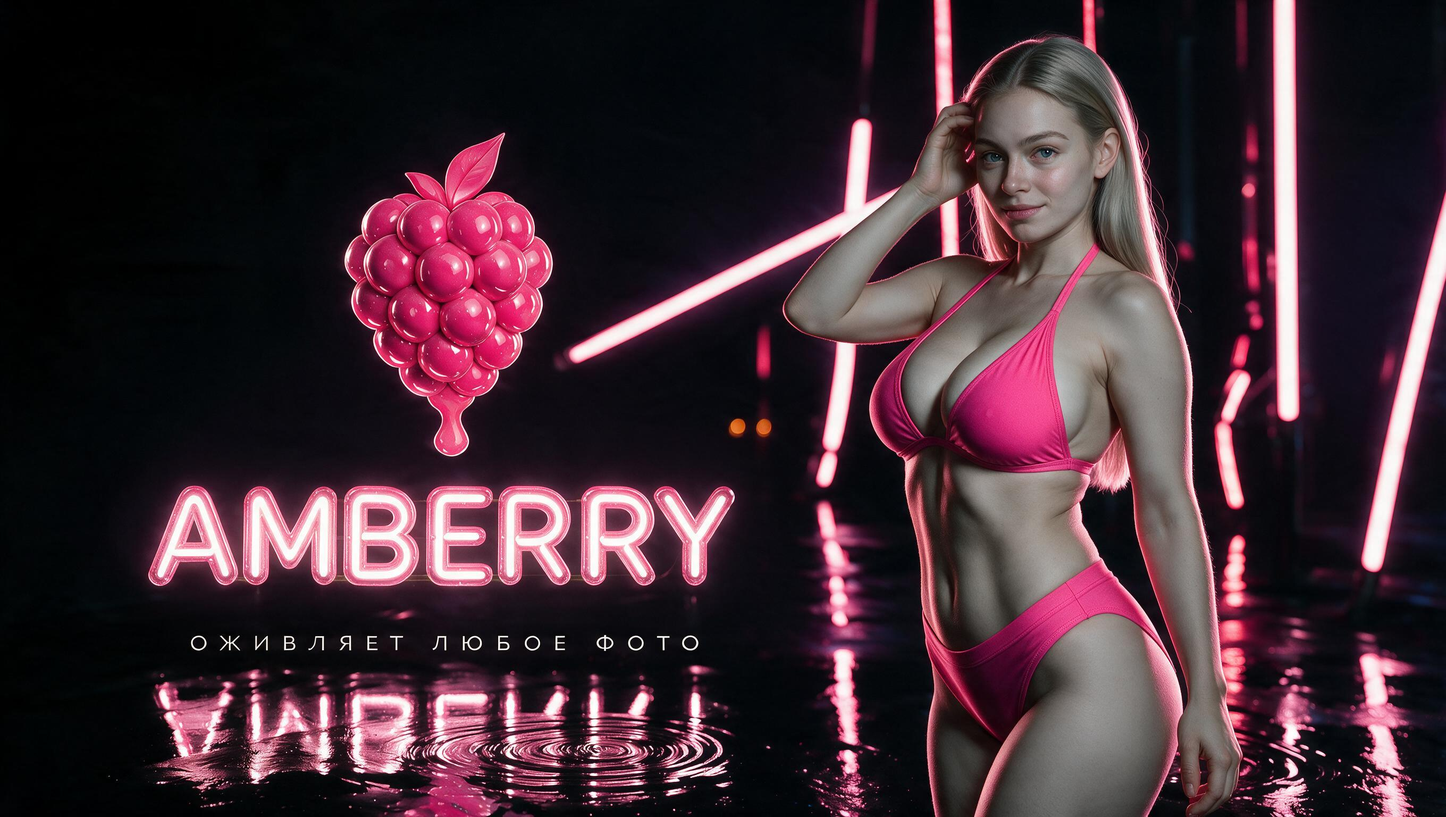
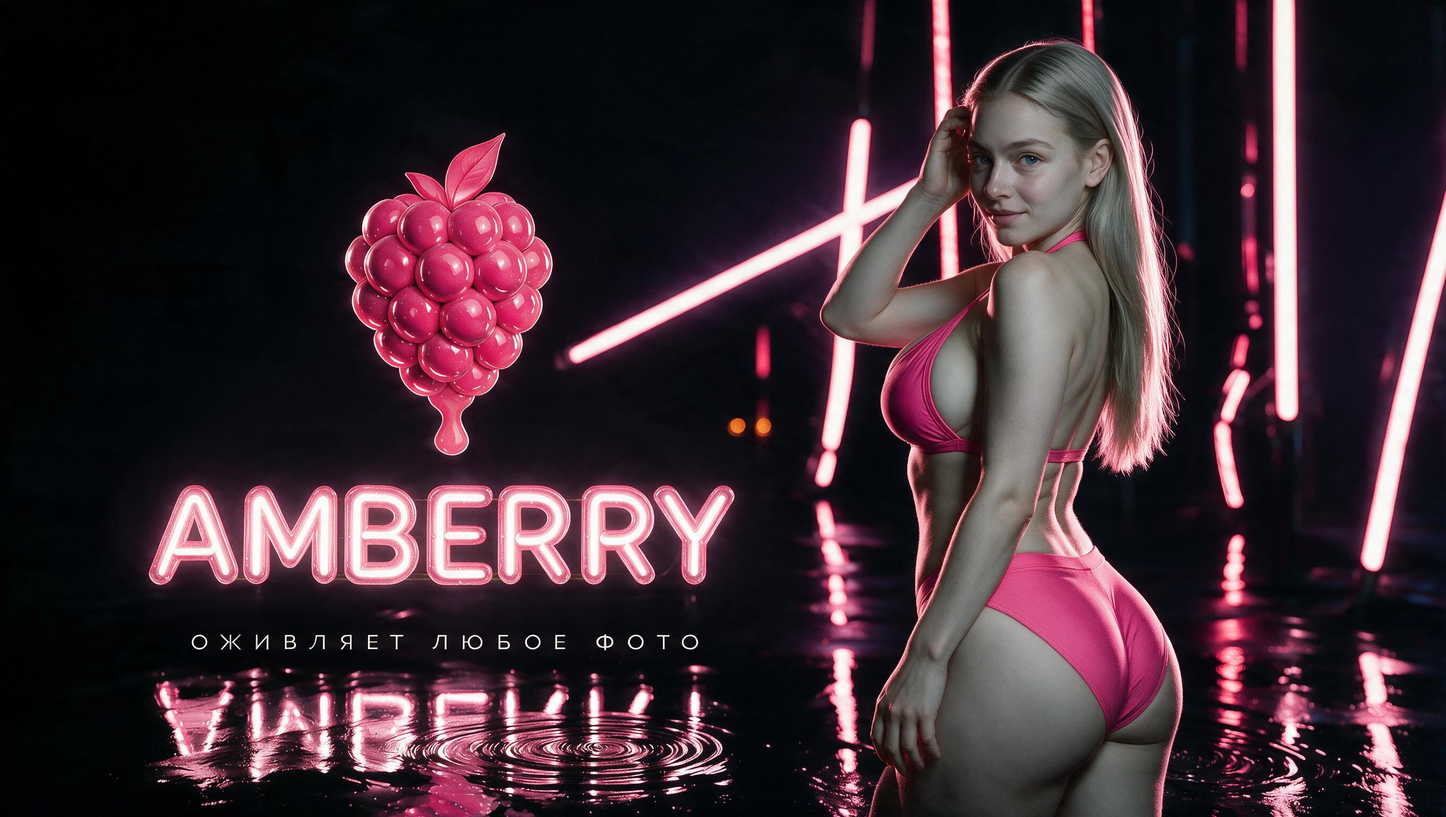
Заставка: разворот на три четверти - грудь и ягодицы в одном кадре
«Худой живот и большая грудь с попой». Живот и грудь были, ягодиц не
было видно вовсе: она стояла почти фронтально, и в силуэт попадала
только линия бедра.

Дело не в сложении, а в ракурсе, поэтому правка в позу. Разворот на
сорок пять градусов от объектива: камера видит грудь в три четверти И
полную линию ягодиц разом. Вес на дальней ноге, ближнее бедро отведено
назад и к камере, голова повёрнута назад через плечо.

Прогиб при этом только в пояснице - длинная поясничная дуга поднимает
ягодицы, - а выше спина остаётся вытянутой. Это важно: боковой наклон
корпуса и есть то, что собирало кожу фланка в складки в прошлой
версии. Прогиб в пояснице их не даёт.

Кадр поднят до колен, чтобы ягодицы влезали целиком. В отрицание
добавлены flat backside, small hips, boyish figure.

Claude-Session: https://claude.ai/code/session_014k3YT9DWK5PbNrwRgKykrK

diff --git a/rocket-panel/brand-amberry/start/сделать_баннер.py b/rocket-panel/brand-amberry/start/сделать_баннер.py
@@ -46,8 +46,10 @@ chest: a deep neckline of cleavage, real volume and natural downward
 weight filling the halter top completely so the fabric is stretched
 taut over it, a visible soft swell above the neckline. The previous
 attempt left her flat chested and that is exactly what must not happen
-again. Pair that bust with wide rounded hips and full
-rounded glutes and strong shapely thighs.
+again. Pair that bust with wide rounded hips and a
+large, full, high and rounded backside - heavy and shapely, projecting
+clearly behind the line of her back, the single widest point of her
+silhouette - over strong shapely thighs.
 
 HER MIDSECTION IS THE OTHER HALF OF THIS, and it must go the OPPOSITE
 way from the bust and hips: a flat, taut, athletic stomach. Tight
@@ -73,19 +75,27 @@ mannequin. She is an adult woman in her mid twenties with a mature,
 developed figure. Her FACE stays exactly as specified above and in the
 reference sheet — the build changes, the person does not.
 
-HER POSE. Confident editorial stance, not a catalogue pose. Turned about
-twenty degrees from camera, facing mostly TOWARDS the lens so her chest
-and waistline are fully visible, weight on one hip so the S curve comes from
-the HIPS ONLY, chin slightly down, looking into the lens with a small
-easy smile. Her front is to the camera, not her back.
+HER POSE. Confident editorial stance, not a catalogue pose. THREE
+QUARTER VIEW, turned roughly forty five degrees away from the lens, so
+that the camera sees her bust in three quarter profile AND the full
+round line of her hip and backside at the same time. This single pose
+has to show both, because both are the point of the picture.
 
-Her spine is LONG AND STRAIGHT, torso lifted and elongated, ribcage
+Weight on the far leg, the near hip pushed back and out towards camera
+so the glutes read big, round and high with a clean curve away from the
+waist. Chest lifted and turned just enough towards the lens that the
+cleavage still reads. Head turned back over her shoulder to the camera,
+chin slightly down, a small easy smile. One hand lifted into her hair,
+the other relaxed along her thigh.
+
+The arch is in the LOWER BACK ONLY - a long lumbar curve that lifts the
+backside - while the spine above it stays long and stretched, ribcage
 pulled up away from the hips, shoulders back and down. She does not
 bend, lean or compress sideways at the waist: side bending is what
-gathers the skin of the flank into folds, and there must be none.
-The stretch through her middle is what keeps it smooth. One
+gathers the skin of the flank into folds, and there must be none. The
+stretch through her middle is what keeps it smooth. One
 hand lifted to run her fingers back through her hair near the temple, the
-other arm relaxed along her side, fingers softly separated. Framed from mid calf up so the full hip and thigh line reads, her full height fitting the frame height with clear margin above her hair. Exactly five clearly rendered fingers on each visible hand,
+other arm relaxed along her side, fingers softly separated. Framed from the knees up so the whole backside and hip line fits in frame with room to spare, her full height fitting the frame height with clear margin above her hair. Exactly five clearly rendered fingers on each visible hand,
 correct knuckle and nail anatomy.
 
 WARDROBE. Modest mainstream fashion swimwear in a single solid neon pink,
@@ -142,6 +152,7 @@ smoothing, no CGI doll look.
              "belly fat, soft stomach, belly roll, muffin top, thick waist, "
              "skin fold, skin crease, wrinkled stomach, pinched waist skin, "
              "love handles, side roll, bent torso, compressed waist, "
+             "flat backside, small hips, boyish figure, "
              "grey background, washed out blacks")
 
 
